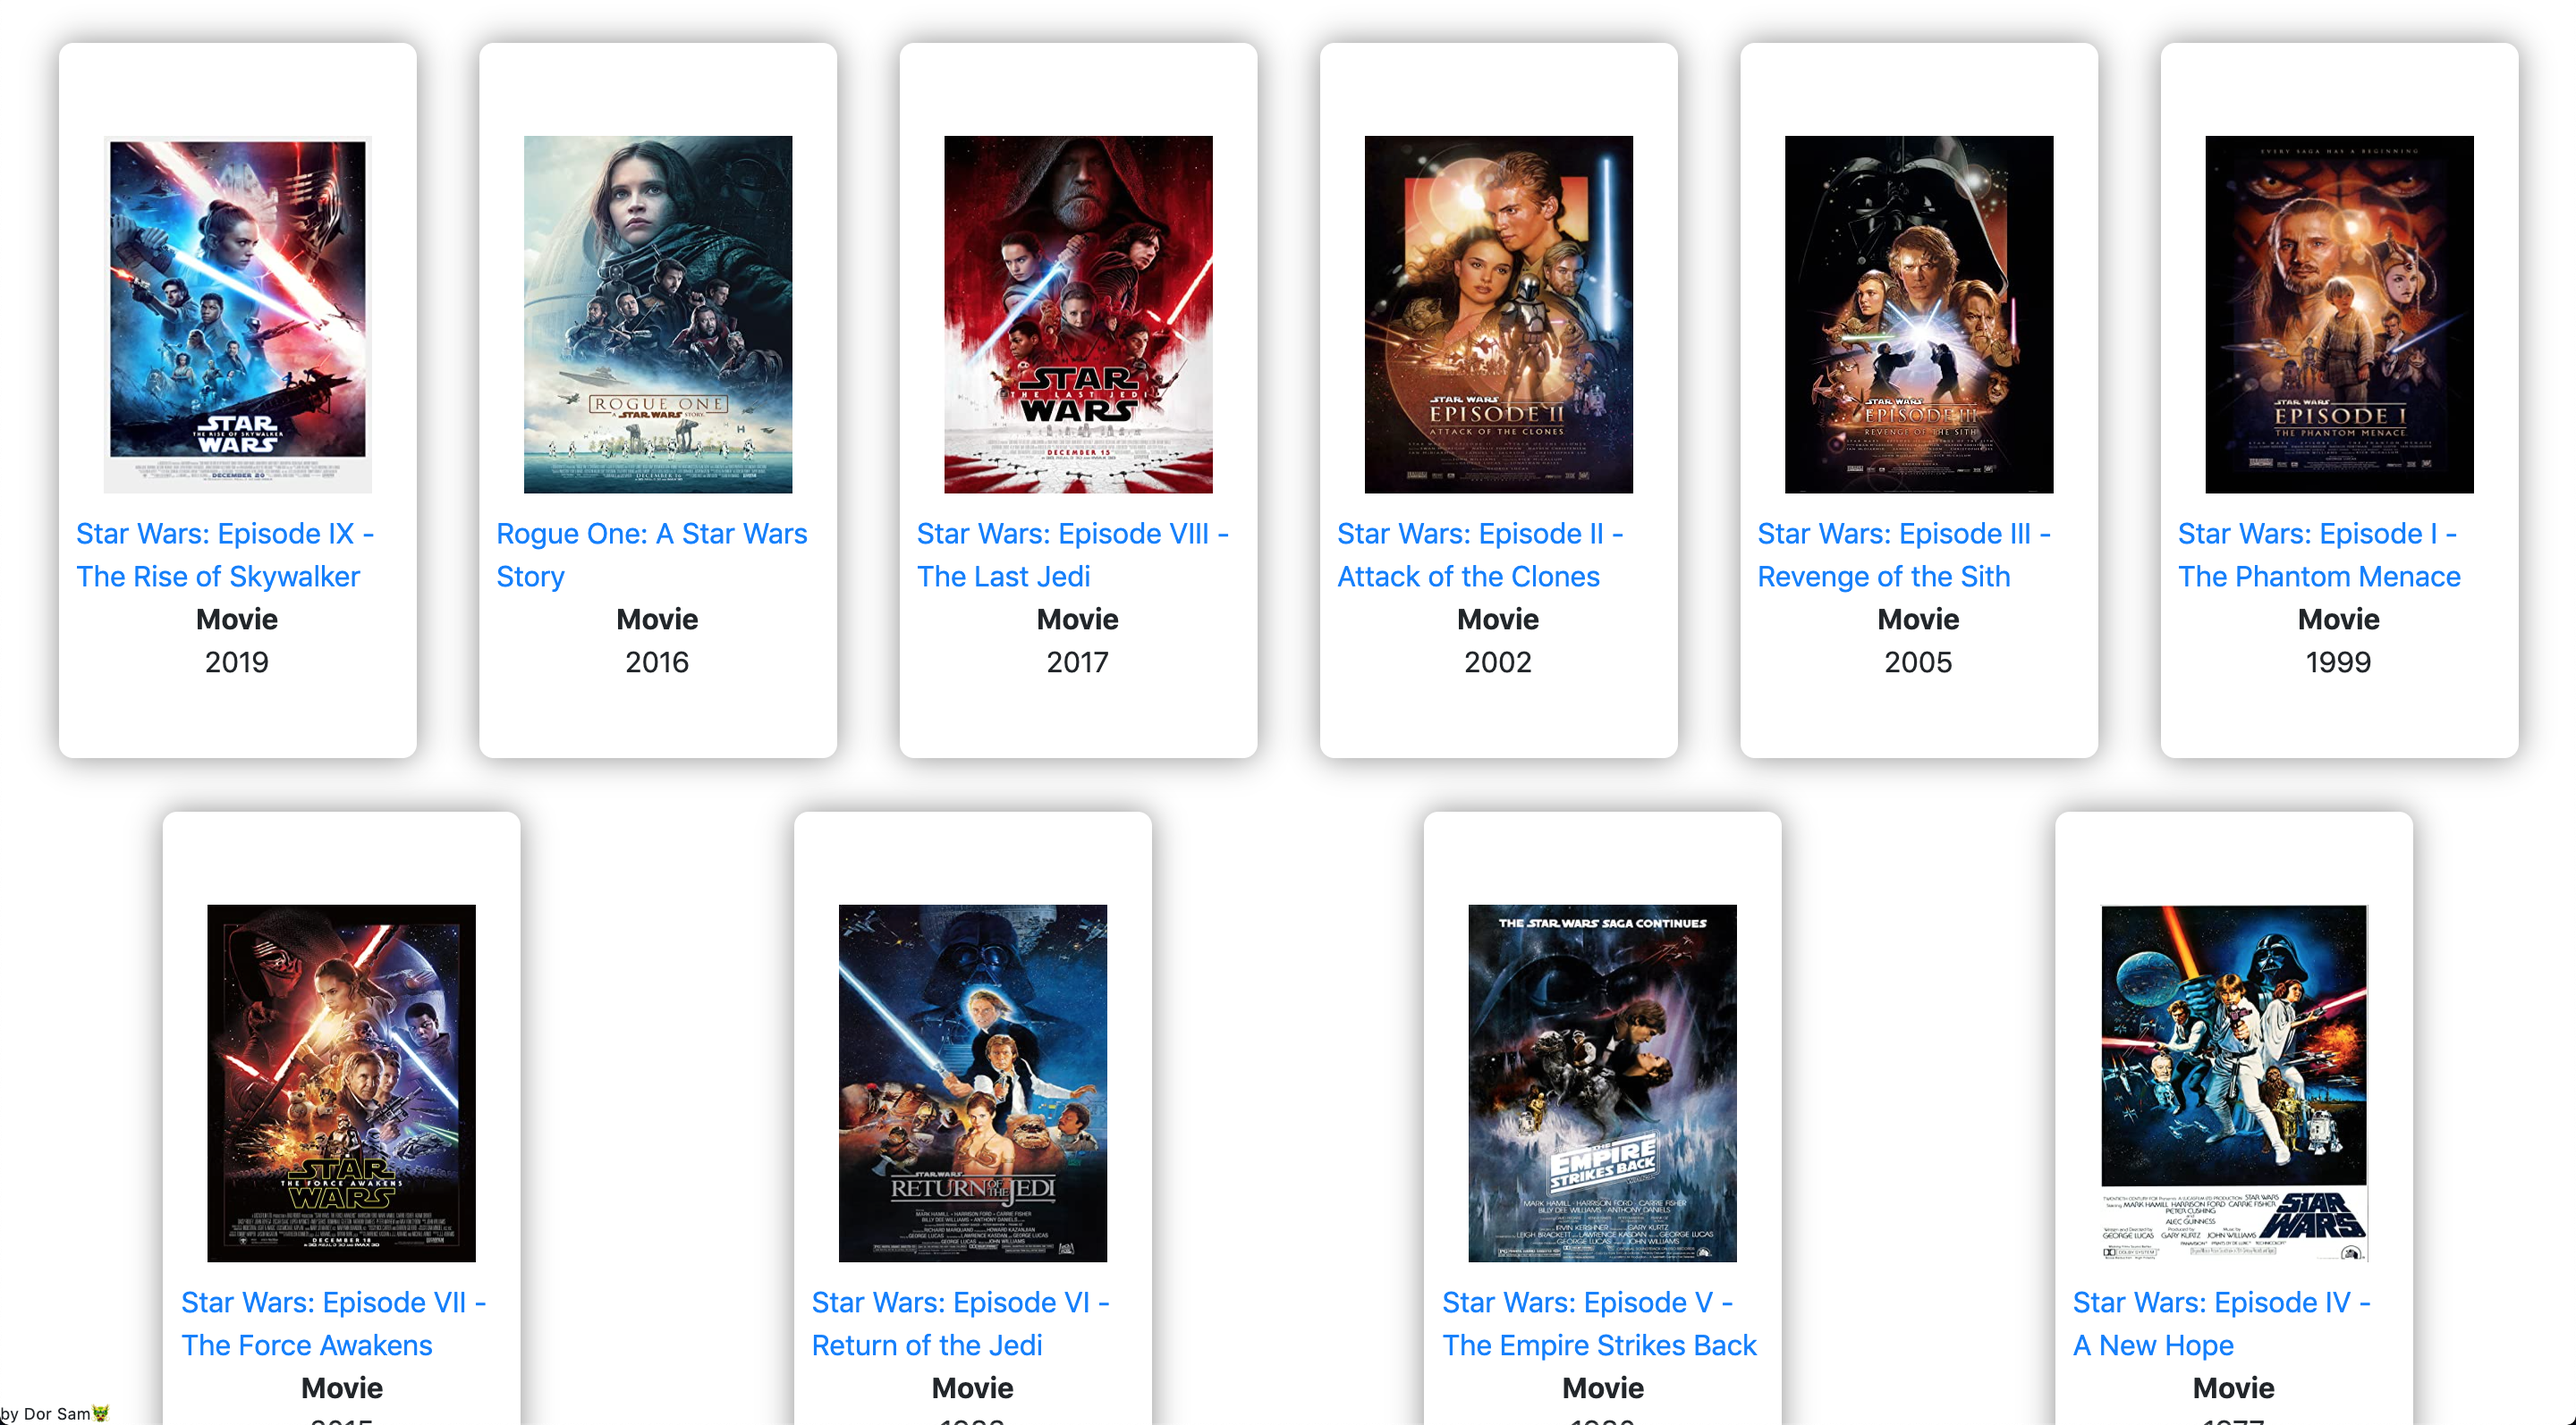
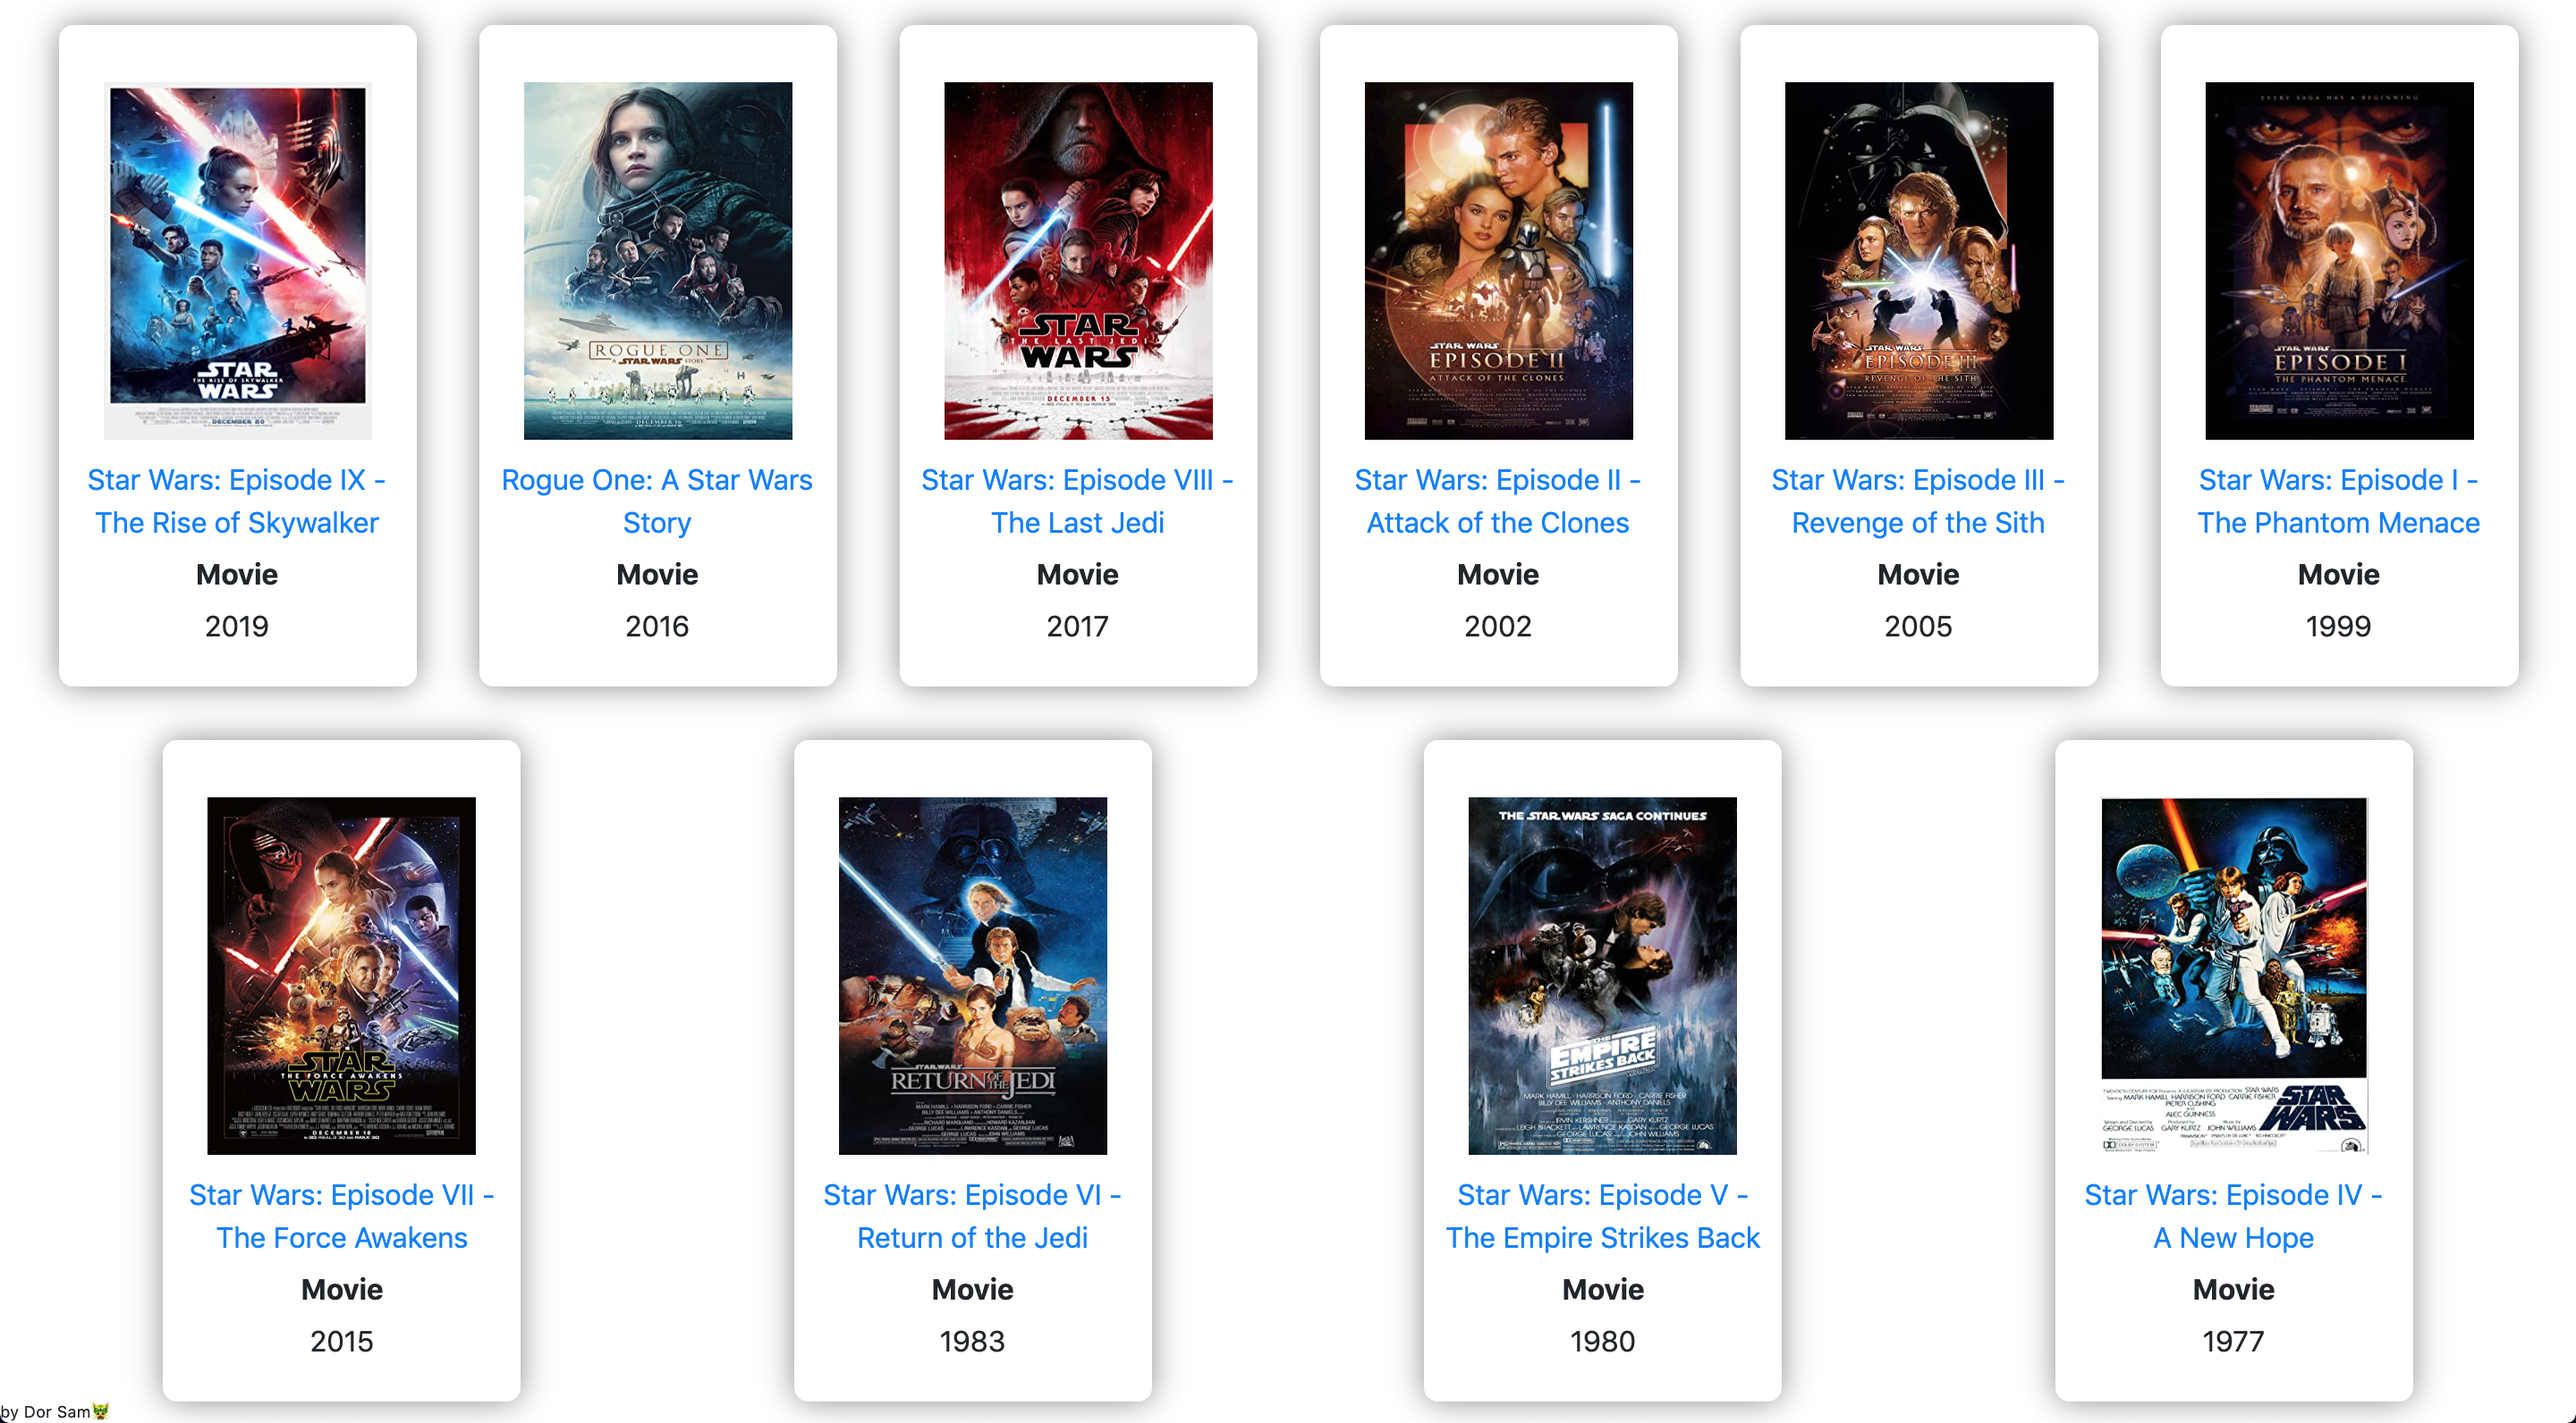
fixed styles

diff --git a/style.css b/style.css
@@ -98,7 +98,7 @@ h1 {
     flex-direction: column;
     text-align: center;
     width: 200px;
-    height: 400px;
+    height: 370px;
     border-radius: 8px;
     -webkit-box-shadow: 0px 0px 17px 0px rgba(0,0,0,0.45);
     -moz-box-shadow: 0px 0px 17px 0px rgba(0,0,0,0.45);
@@ -112,13 +112,15 @@ h1 {
     margin: 10px auto;
 }
 
+.result2 span {
+    margin-top: 5px;
+}
+
 .result2:hover{
     transform: scale(1.1);
 }
 
 #movie-title {
-    margin-top: 10px;
-    margin-bottom: 25px;
     text-align: center;
 }
 
